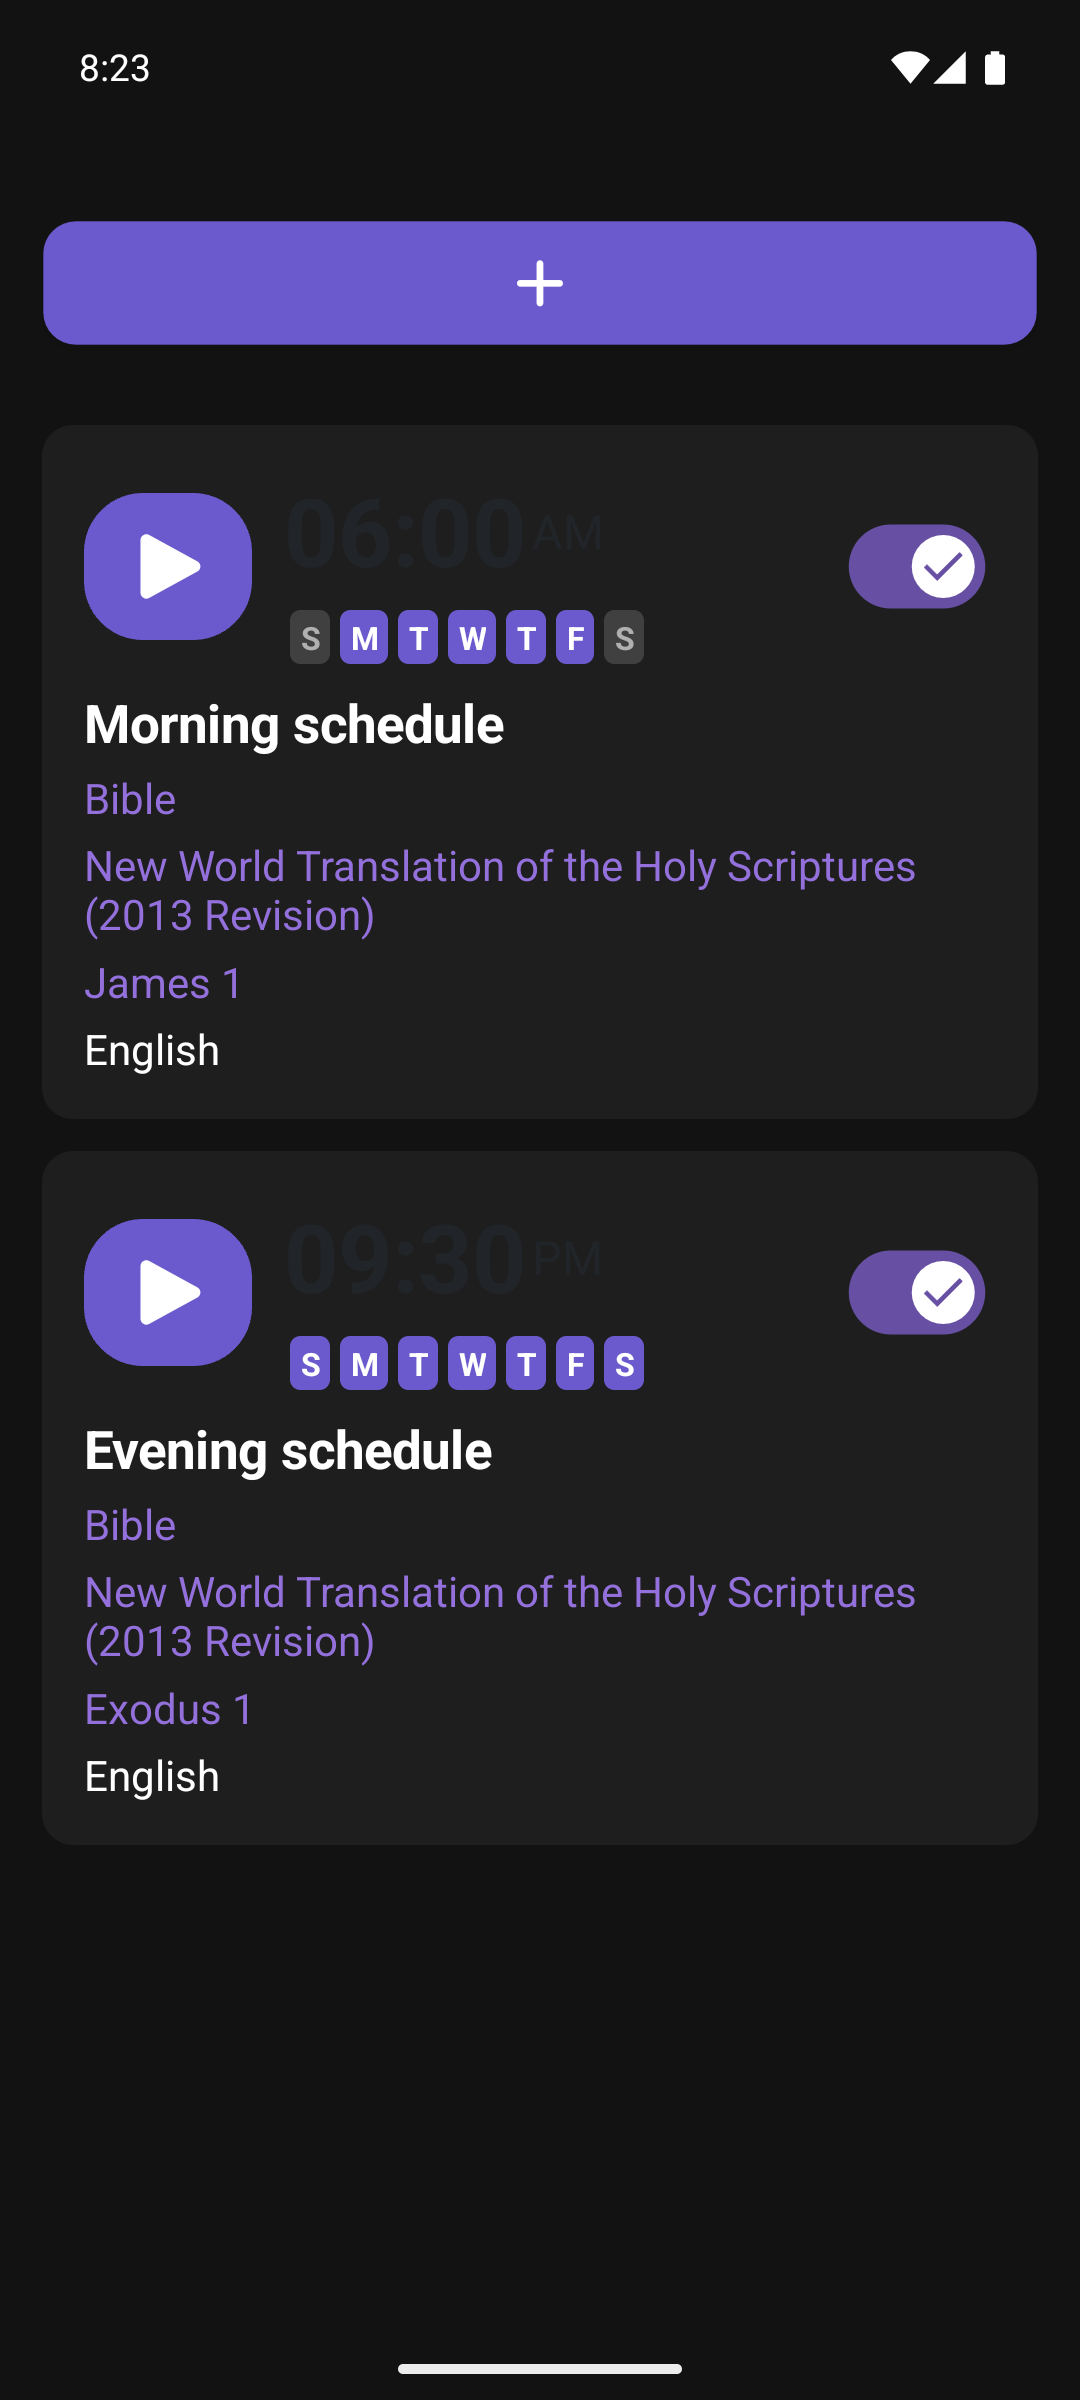
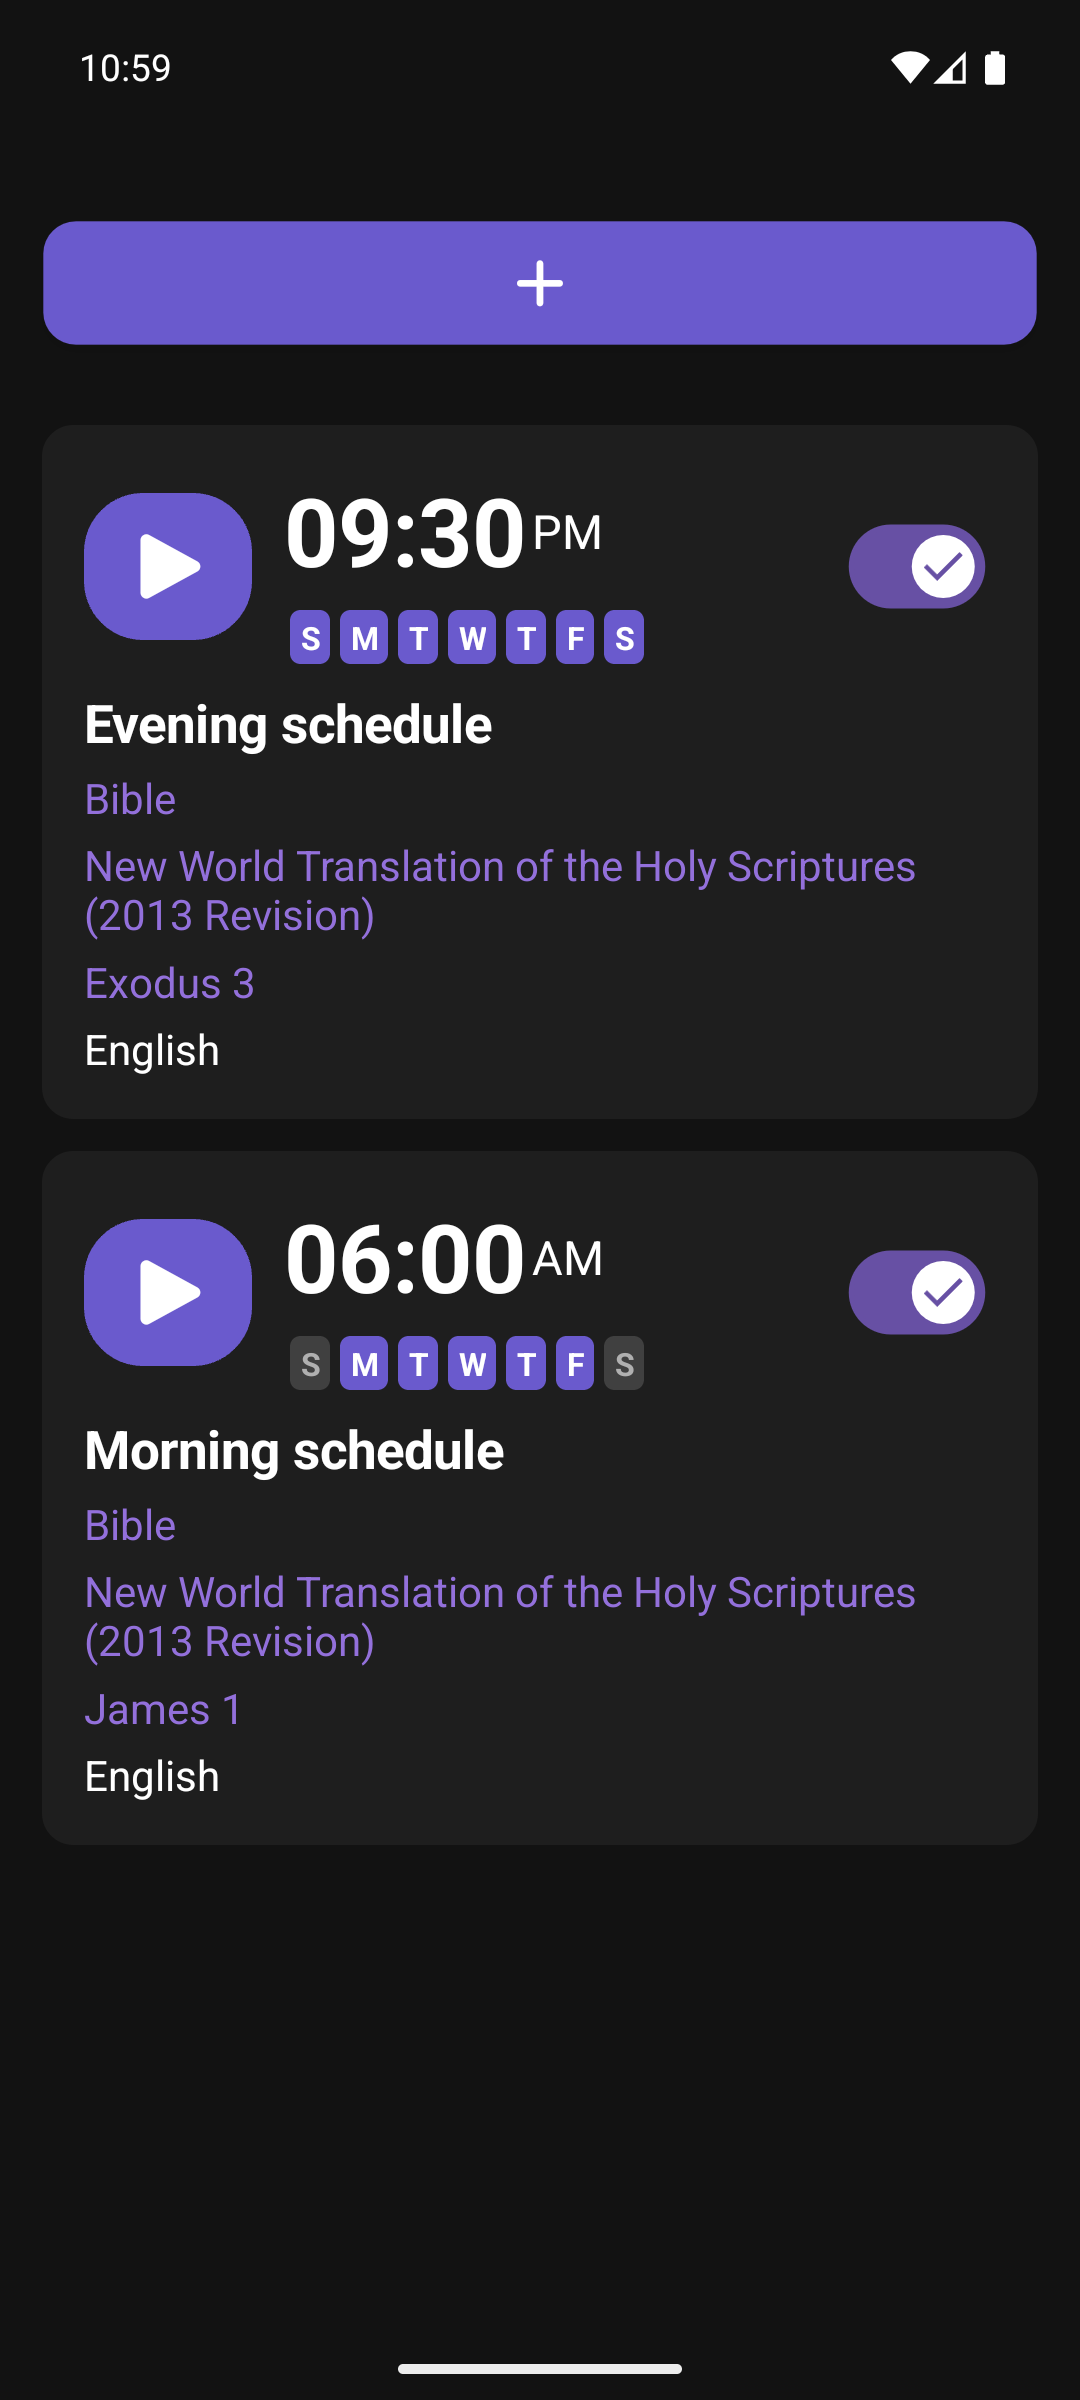
Fix dark/light mode switch bugs

diff --git a/src/Bible.Alarm/ViewModels/Schedule/ScheduleDetailsContainerViewModel.cs b/src/Bible.Alarm/ViewModels/Schedule/ScheduleDetailsContainerViewModel.cs
@@ -355,23 +355,9 @@ public sealed class ScheduleDetailsContainerViewModel : ObservableObject, IDispo
 
     private void OnThemeChanged()
     {
-        // Notify DaysOfWeek and IsEnabled properties to trigger converters that bind to them
-        // This causes day button colors to update when theme changes
-        // Note: We're already on the main thread (message is sent from main thread),
-        // Use BeginInvokeOnMainThread to ensure this happens after theme resources are fully updated
-        // Notify properties separately to force MultiBinding converters to re-evaluate
         MainThread.BeginInvokeOnMainThread(() =>
         {
-            // Notify IsEnabled first, then DaysOfWeek to ensure MultiBinding re-evaluates
-            OnPropertyChanged(nameof(IsEnabled));
-            // Small delay to force MultiBinding to see both notifications separately
-            Task.Delay(10).ContinueWith(_ =>
-            {
-                MainThread.BeginInvokeOnMainThread(() =>
-                {
-                    OnPropertyChanged(nameof(DaysOfWeek));
-                });
-            });
+            OnPropertyChanged(string.Empty);
         });
     }
 

diff --git a/src/Bible.Alarm/ViewModels/ScheduleListItemViewModel.cs b/src/Bible.Alarm/ViewModels/ScheduleListItemViewModel.cs
@@ -623,7 +623,11 @@ public sealed class ScheduleListItemViewModel(
         }
     }
 
-    private void OnThemeChanged() => MainThread.BeginInvokeOnMainThread(() => OnPropertyChanged(nameof(This)));
+    private void OnThemeChanged() => MainThread.BeginInvokeOnMainThread(() =>
+    {
+        OnPropertyChanged(nameof(This));
+        OnPropertyChanged(nameof(IsEnabled));
+    });
 
     public void Dispose()
     {
